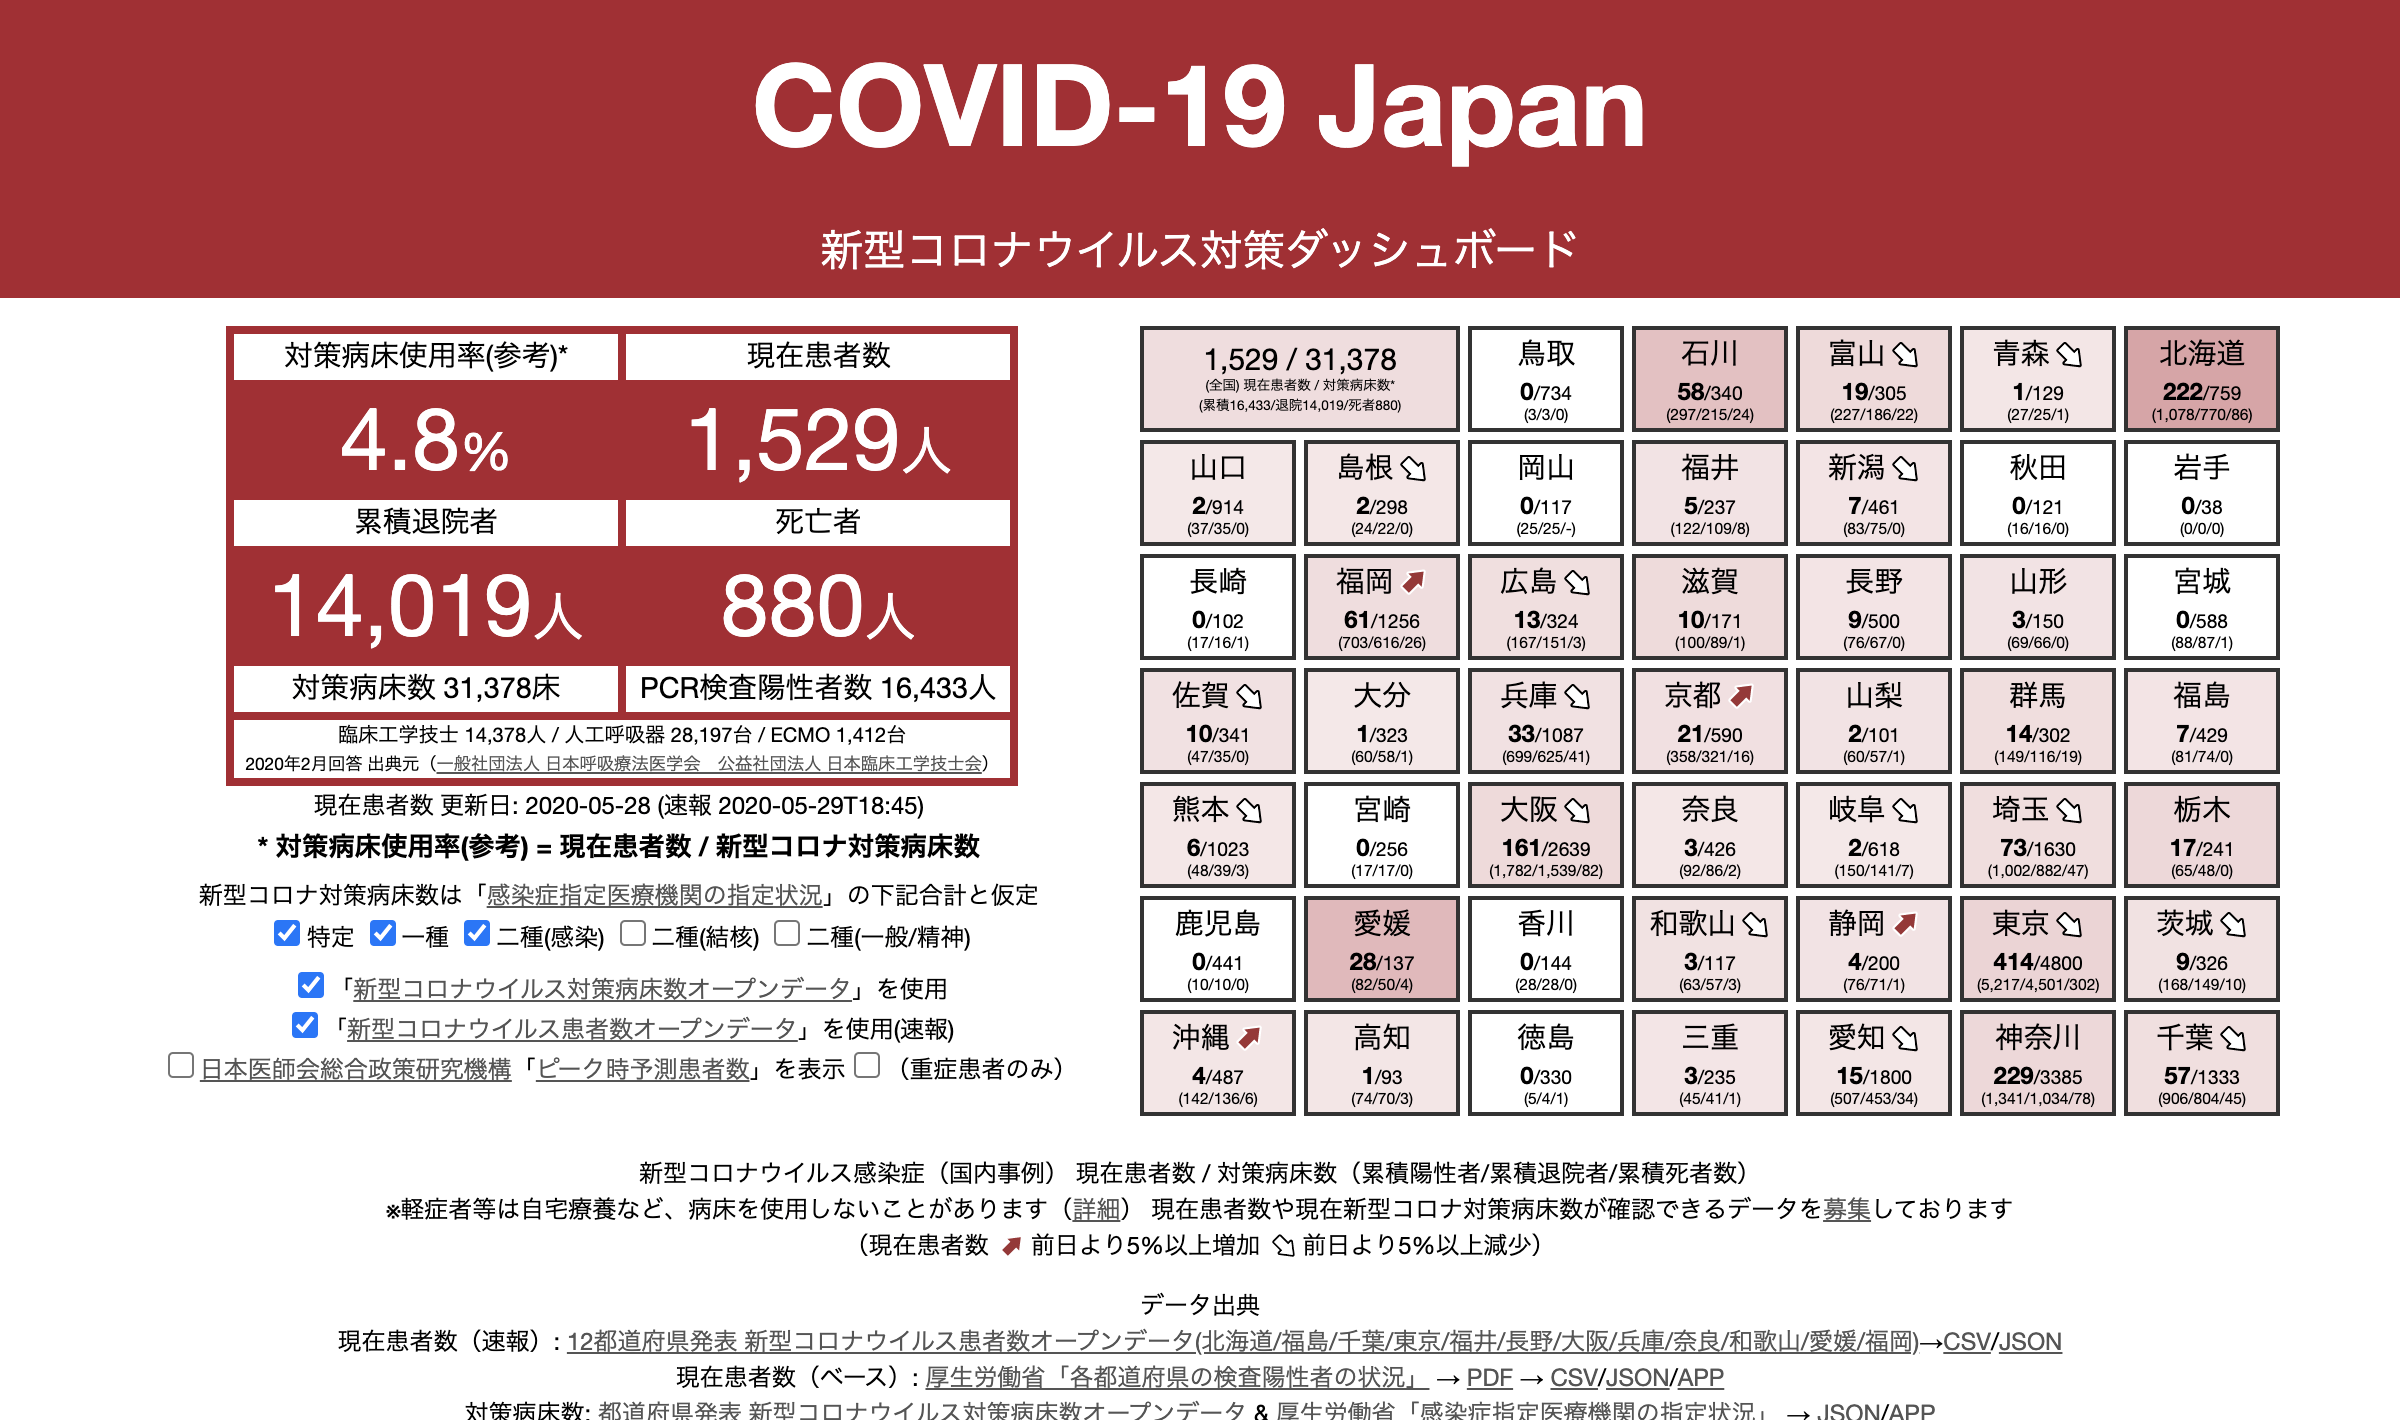
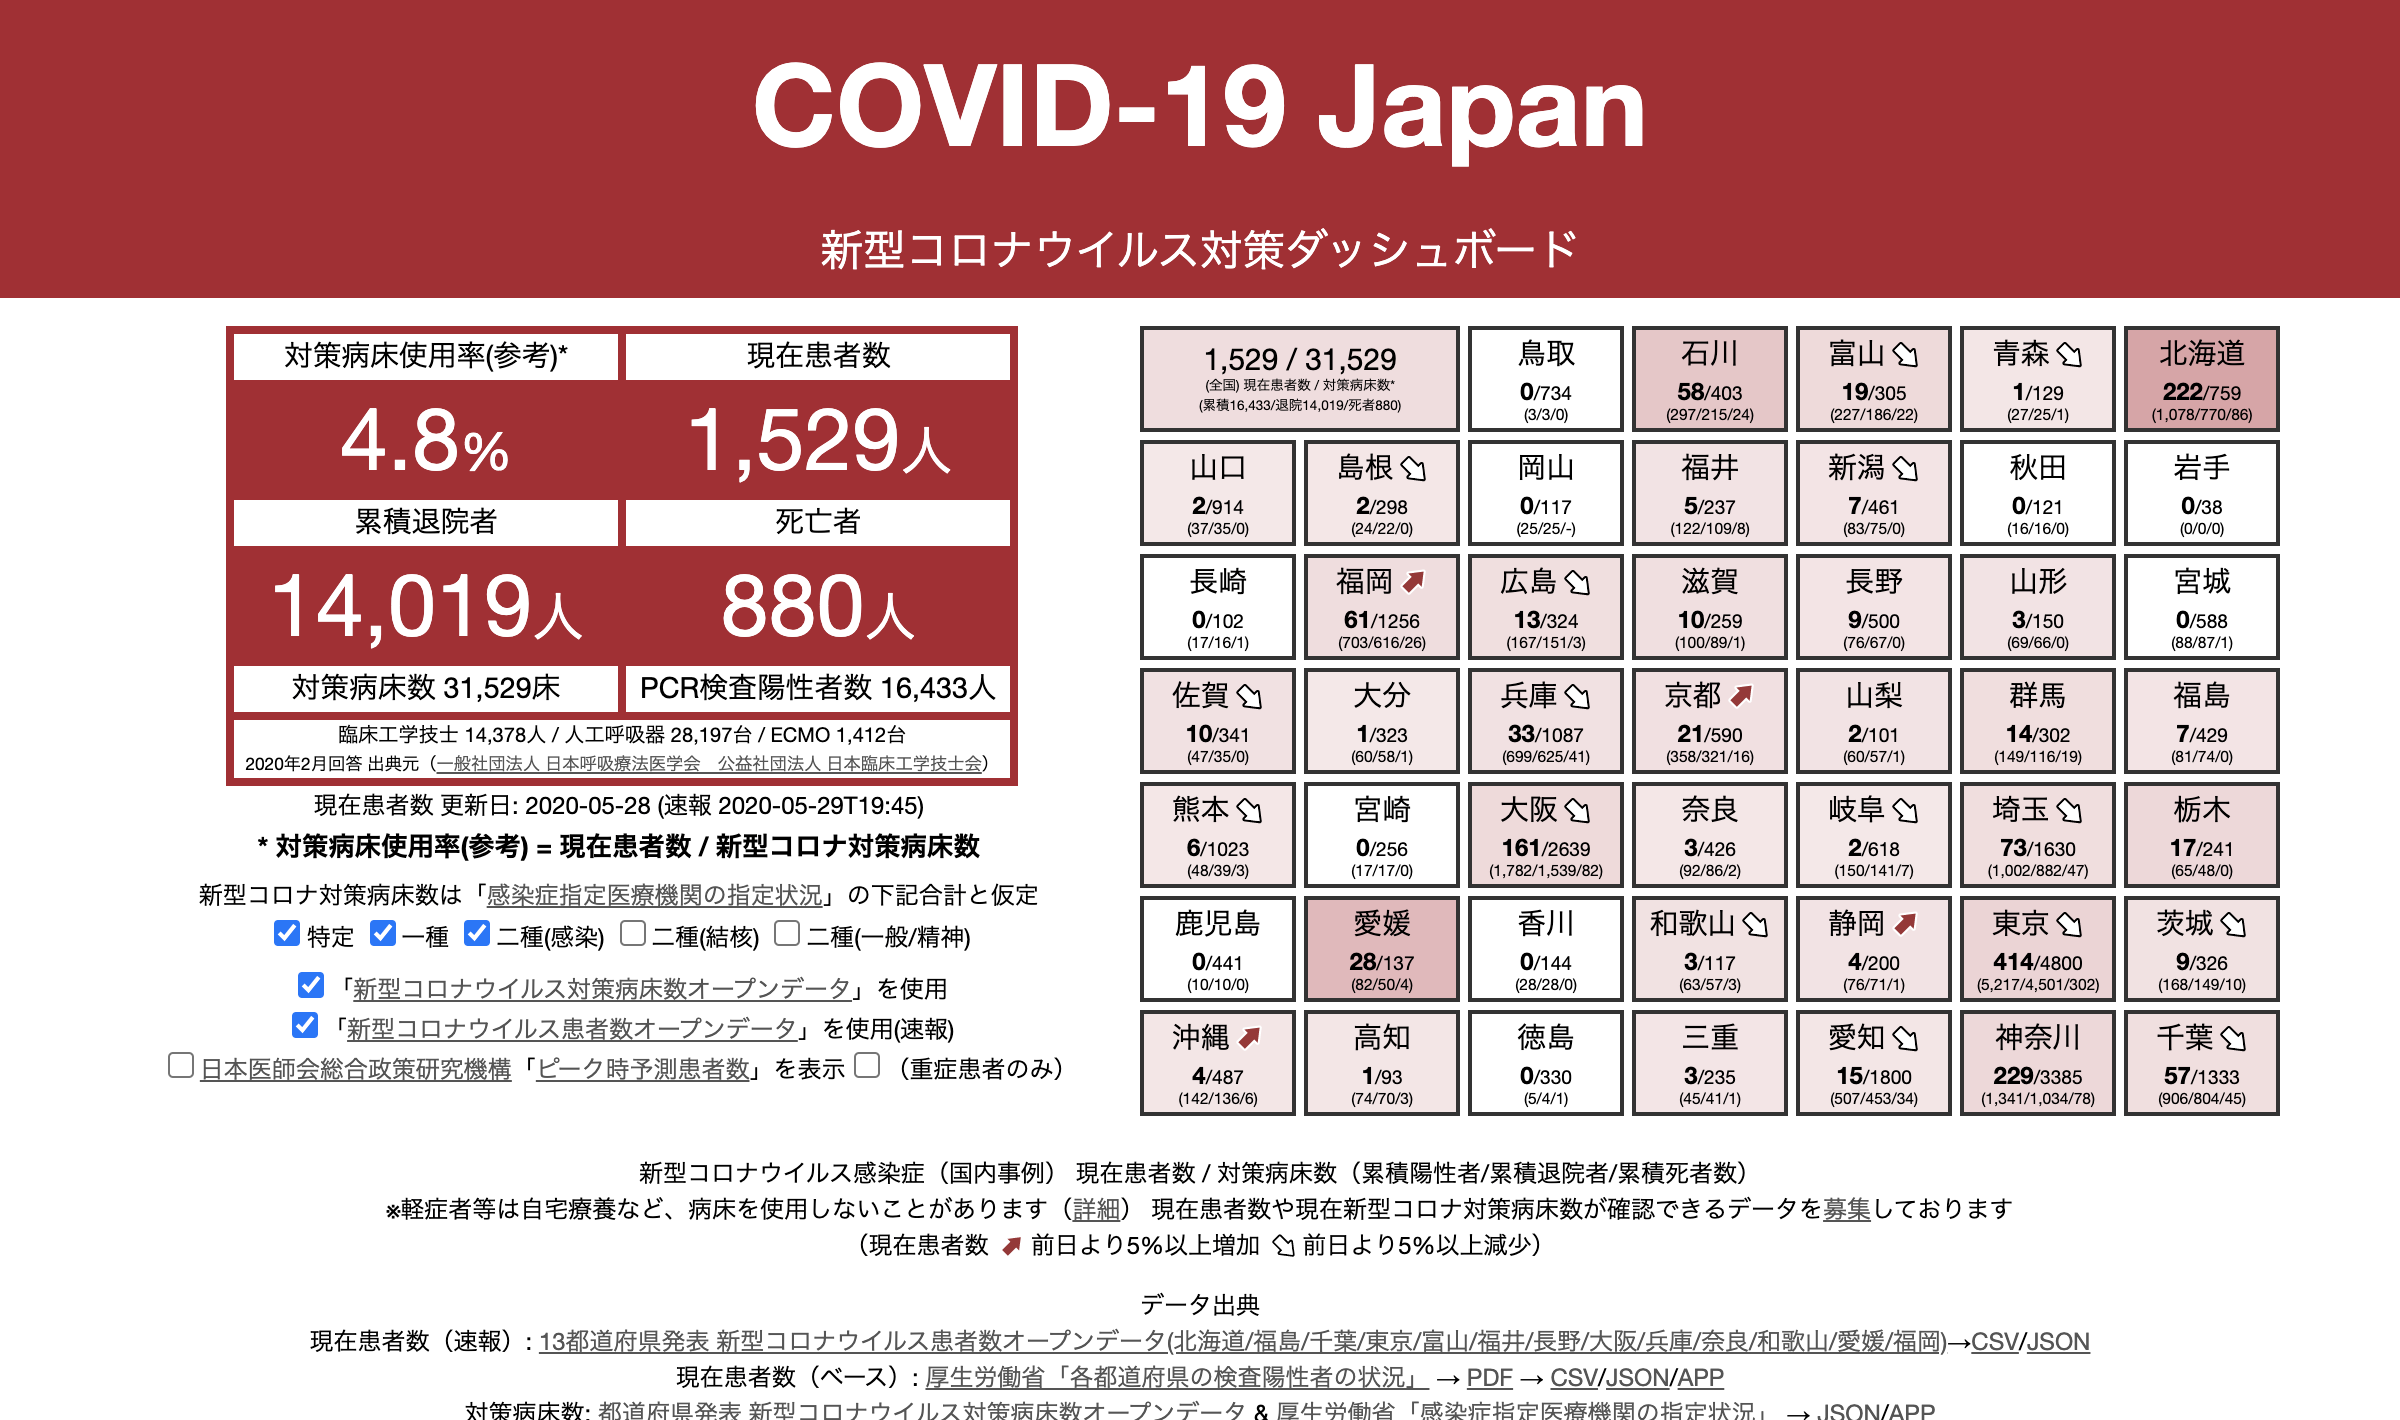
病床数更新（滋賀県、石川県）

Changed region(s): [[0.125, 0.9296, 0.875, 0.9606], [0.5625, 0.2479, 0.5938, 0.2789], [0.1875, 0.4648, 0.2188, 0.4958]]

diff --git a/index.html b/index.html
@@ -19,8 +19,8 @@ gtag('config', 'UA-162141832-1')
 <link rel="apple-touch-icon" href="covid19japan-leargeicon.png"/>
 <meta name="msapplication-square310x310logo" content="covid19japan-leargeicon.png"/>
 <meta name="twitter:card" content="summary_large_image"/>
-<meta property="og:image"  content="https://www.stopcovid19.jp/ogp/covid19japan_ogp_20200529192712.png"/>
-<meta name="twitter:image" content="https://www.stopcovid19.jp/ogp/covid19japan_ogp_20200529192712.png"/>
+<meta property="og:image"  content="https://www.stopcovid19.jp/ogp/covid19japan_ogp_20200529201516.png"/>
+<meta name="twitter:image" content="https://www.stopcovid19.jp/ogp/covid19japan_ogp_20200529201516.png"/>
 
 <meta name="viewport" content="width=device-width, initial-scale=1.0"/>
 <meta name="format-detection" content="telephone=no"/>
